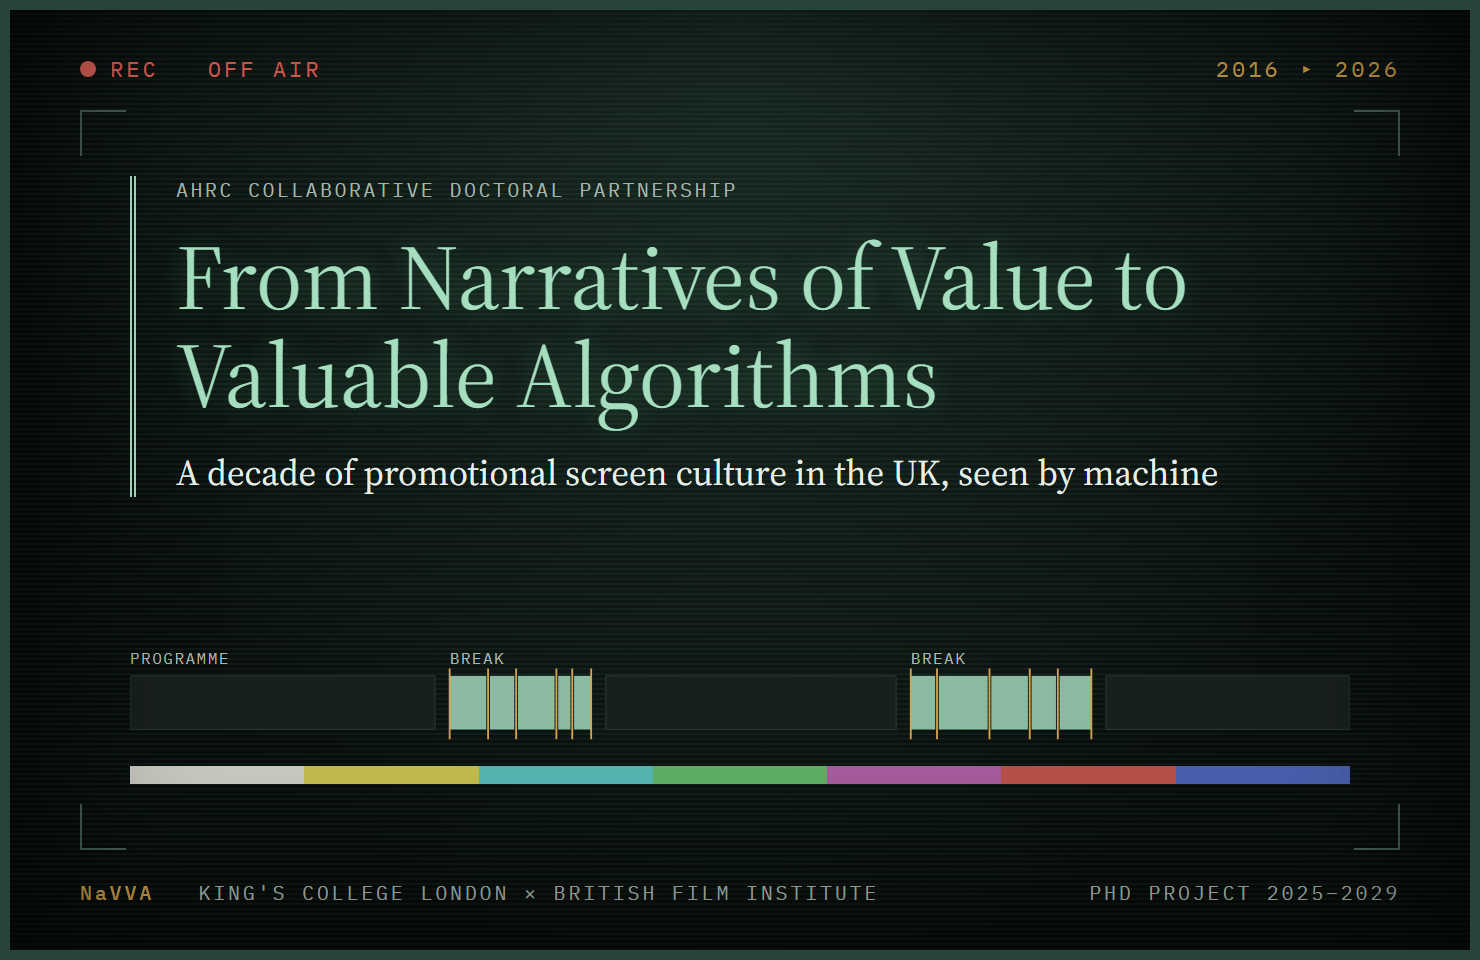
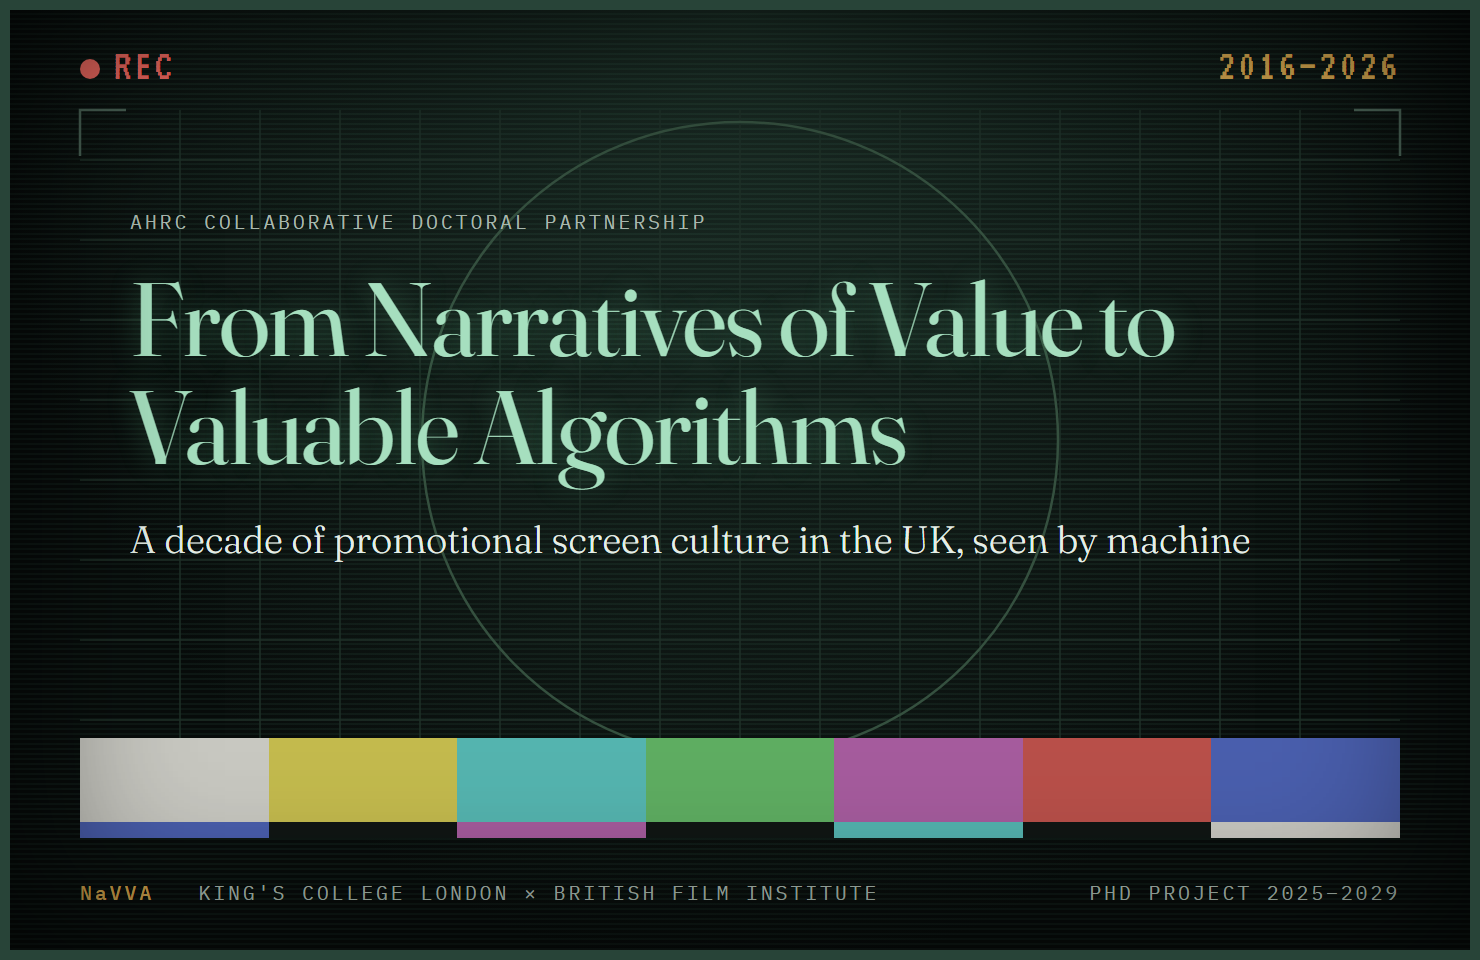
Rework title card: Fraunces and VT323, test-card geometry, colour bars

diff --git a/_src/card.html b/_src/card.html
@@ -1,54 +1,57 @@
 <!doctype html>
 <!-- Source for assets/navva_card.png. Render at 1480x960:
-     chrome --headless --screenshot=navva_card.png --window-size=1480,960 --hide-scrollbars card.html -->
+     chrome --headless --screenshot=navva_card.png --window-size=1480,960 --hide-scrollbars card.html
+     Add ?v=b for the grotesque caption variant. -->
 <html lang="en">
 <head>
 <meta charset="utf-8">
-<link rel="stylesheet" href="https://fonts.googleapis.com/css2?family=IBM+Plex+Mono:wght@400;500&family=Source+Serif+4:opsz,wght@8..60,400&display=swap">
+<link rel="stylesheet" href="https://fonts.googleapis.com/css2?family=Archivo:wdth,wght@62..125,400..800&family=Fraunces:opsz,wght@9..144,300..500&family=IBM+Plex+Mono:wght@400;500&family=VT323&display=swap">
 <style>
   html, body { margin: 0; width: 1480px; height: 960px; overflow: hidden; }
   body { background: #080c0b; color: #e5eee7; font-family: "IBM Plex Mono", monospace; position: relative;
     background-image: repeating-linear-gradient(0deg, rgba(126,255,197,0.05) 0, rgba(126,255,197,0.05) 2px, transparent 2px, transparent 5px), radial-gradient(ellipse at 50% 0%, #1a2b24 0%, #080c0b 72%); }
   body::after { content: ""; position: absolute; inset: 0; border: 10px solid #284438; box-shadow: inset 0 0 180px rgba(0,0,0,0.7); pointer-events: none; }
-  .osd { position: absolute; top: 54px; left: 80px; right: 80px; display: flex; justify-content: space-between; font-size: 22px; letter-spacing: 0.14em; }
-  .rec { color: #f06a61; } .rec i { display: inline-block; width: 16px; height: 16px; border-radius: 50%; background: currentColor; margin-right: 14px; }
+  /* test-card geometry behind the title */
+  .card { position: absolute; inset: 0; width: 100%; height: 100%; }
+  .osd { position: absolute; top: 44px; left: 80px; right: 80px; display: flex; justify-content: space-between; font: 400 44px/1 "VT323", monospace; letter-spacing: 0.06em; }
+  .rec { color: #f06a61; } .rec i { display: inline-block; width: 20px; height: 20px; border-radius: 50%; background: currentColor; margin-right: 14px; }
   .tc { color: #d3a54f; }
-  /* safe-area corner marks */
-  .c { position: absolute; width: 44px; height: 44px; border: 2px solid #486054; }
-  .c.tl { top: 110px; left: 80px; border-right: 0; border-bottom: 0; } .c.tr { top: 110px; right: 80px; border-left: 0; border-bottom: 0; }
-  .c.bl { bottom: 110px; left: 80px; border-right: 0; border-top: 0; } .c.br { bottom: 110px; right: 80px; border-left: 0; border-top: 0; }
-  .title { position: absolute; top: 176px; left: 130px; right: 130px; border-left: 6px double #a6dfbf; padding-left: 40px; }
-  .label { font-size: 20px; letter-spacing: 0.12em; text-transform: uppercase; color: #a9b8ae; }
-  h1 { font: 400 92px/1.06 "Source Serif 4", Georgia, serif; color: #a6dfbf; text-shadow: 0 0 30px rgba(116,226,166,0.28); margin: 26px 0 26px; }
-  .dek { font: 400 36px/1.3 "Source Serif 4", Georgia, serif; color: #e5eee7; }
-  .strip { position: absolute; left: 130px; right: 130px; bottom: 176px; }
-  svg { width: 100%; display: block; }
-  svg text { font-family: "IBM Plex Mono", monospace; font-size: 13px; letter-spacing: 0.1em; fill: #a9b8ae; }
-  .bars { display: flex; height: 18px; margin-top: 22px; } .bars span { flex: 1; }
+  .title { position: absolute; top: 208px; left: 130px; right: 130px; }
+  .label { font-size: 20px; letter-spacing: 0.14em; text-transform: uppercase; color: #a9b8ae; }
+  h1 { font: 400 104px/1.04 "Fraunces", Georgia, serif; font-variation-settings: "opsz" 144; letter-spacing: -0.012em; color: #a6dfbf; text-shadow: 0 0 30px rgba(116,226,166,0.28); margin: 30px 0 34px; }
+  h1 em { font-style: normal; color: #e5eee7; }
+  .dek { font: 300 38px/1.3 "Fraunces", Georgia, serif; font-variation-settings: "opsz" 36; color: #e5eee7; margin: 0; }
+  .b h1 { font: 800 78px/1.06 "Archivo", sans-serif; font-stretch: 112%; text-transform: uppercase; letter-spacing: 0.005em; }
+  .b .dek { font: 400 34px/1.3 "Archivo", sans-serif; font-stretch: 100%; }
+  .bars { position: absolute; left: 80px; right: 80px; bottom: 122px; }
+  .bars div { display: flex; } .bars span { flex: 1; }
+  .bars .main { height: 84px; } .bars .sub { height: 16px; }
   .foot { position: absolute; bottom: 54px; left: 80px; right: 80px; display: flex; justify-content: space-between; font-size: 20px; letter-spacing: 0.14em; color: #a9b8ae; }
   .foot b { color: #d3a54f; font-weight: 500; }
 </style>
 </head>
 <body>
-  <div class="osd"><span class="rec"><i></i>REC &nbsp; OFF AIR</span><span class="tc">2016 ▸ 2026</span></div>
-  <i class="c tl"></i><i class="c tr"></i><i class="c bl"></i><i class="c br"></i>
+  <svg class="card" viewBox="0 0 1480 960" aria-hidden="true">
+    <g stroke="#1f3028" stroke-width="1.5" fill="none">
+      <path d="M80 160H1400M80 240H1400M80 320H1400M80 400H1400M80 480H1400M80 560H1400M80 640H1400M80 720H1400"/>
+      <path d="M180 110V740M260 110V740M340 110V740M420 110V740M500 110V740M580 110V740M660 110V740M740 110V740M820 110V740M900 110V740M980 110V740M1060 110V740M1140 110V740M1220 110V740M1300 110V740"/>
+    </g>
+    <circle cx="740" cy="440" r="318" fill="none" stroke="#35503f" stroke-width="2.5"/>
+    <g stroke="#486054" stroke-width="2.5" fill="none">
+      <path d="M80 156V110H126M1354 110H1400V156"/>
+    </g>
+  </svg>
+  <div class="osd"><span class="rec"><i></i>REC</span><span class="tc">2016–2026</span></div>
   <div class="title">
     <span class="label">AHRC Collaborative Doctoral Partnership</span>
     <h1>From Narratives of Value to Valuable Algorithms</h1>
-    <p class="dek" style="margin:0">A decade of promotional screen culture in the UK, seen by machine</p>
+    <p class="dek">A decade of promotional screen culture in the UK, seen by machine</p>
   </div>
-  <div class="strip">
-    <svg viewBox="0 0 1000 78">
-      <text x="0" y="12">PROGRAMME</text><text x="262" y="12" fill="#d3a54f">BREAK</text><text x="640" y="12" fill="#d3a54f">BREAK</text>
-      <g fill="#18201c" stroke="#27352e"><rect x="0" y="22" width="250" height="44"/><rect x="390" y="22" width="238" height="44"/><rect x="800" y="22" width="200" height="44"/></g>
-      <g fill="#a6dfbf" fill-opacity="0.82">
-        <rect x="262" y="22" width="30" height="44"/><rect x="295" y="22" width="20" height="44"/><rect x="318" y="22" width="30" height="44"/><rect x="351" y="22" width="10" height="44"/><rect x="364" y="22" width="14" height="44"/>
-        <rect x="640" y="22" width="20" height="44"/><rect x="663" y="22" width="40" height="44"/><rect x="706" y="22" width="30" height="44"/><rect x="739" y="22" width="20" height="44"/><rect x="762" y="22" width="26" height="44"/>
-      </g>
-      <path stroke="#d3a54f" stroke-width="1.5" d="M262 16V74M293.5 16V74M316.5 16V74M349.5 16V74M362.5 16V74M378 16V74M640 16V74M661.5 16V74M704.5 16V74M737.5 16V74M760.5 16V74M788 16V74"/>
-    </svg>
-    <div class="bars"><span style="background:#c9c9c2"></span><span style="background:#c4bb4e"></span><span style="background:#55b5b0"></span><span style="background:#5fae62"></span><span style="background:#a65c9e"></span><span style="background:#b9504a"></span><span style="background:#4a5fae"></span></div>
+  <div class="bars">
+    <div class="main"><span style="background:#c9c9c2"></span><span style="background:#c4bb4e"></span><span style="background:#55b5b0"></span><span style="background:#5fae62"></span><span style="background:#a65c9e"></span><span style="background:#b9504a"></span><span style="background:#4a5fae"></span></div>
+    <div class="sub"><span style="background:#4a5fae"></span><span style="background:#101614"></span><span style="background:#a65c9e"></span><span style="background:#101614"></span><span style="background:#55b5b0"></span><span style="background:#101614"></span><span style="background:#c9c9c2"></span></div>
   </div>
   <div class="foot"><span><b>NaVVA</b> &nbsp; KING'S COLLEGE LONDON × BRITISH FILM INSTITUTE</span><span>PHD PROJECT 2025–2029</span></div>
+  <script>if (location.search.indexOf("v=b") > -1) document.body.classList.add("b");</script>
 </body>
 </html>

diff --git a/index.html b/index.html
@@ -12,7 +12,7 @@
 <meta name="twitter:card" content="summary_large_image">
 <link rel="preconnect" href="https://fonts.googleapis.com">
 <link rel="preconnect" href="https://fonts.gstatic.com" crossorigin>
-<link rel="stylesheet" href="https://fonts.googleapis.com/css2?family=IBM+Plex+Mono:wght@400;500&family=IBM+Plex+Sans:ital,wght@0,400;0,500;0,600;1,400&family=Source+Serif+4:ital,opsz,wght@0,8..60,400;0,8..60,600;1,8..60,400&display=swap">
+<link rel="stylesheet" href="https://fonts.googleapis.com/css2?family=Fraunces:ital,opsz,wght@0,9..144,300..500;1,9..144,300..500&family=IBM+Plex+Mono:wght@400;500&family=IBM+Plex+Sans:ital,wght@0,400;0,500;0,600;1,400&family=VT323&display=swap">
 <style>
   :root {
     --paper: #f3f1ea; --surface: #fbfaf5; --surface-2: #e9e6db;
@@ -24,7 +24,7 @@
     --scr-bg: #080c0b; --scr-ink: #e5eee7; --scr-soft: #a9b8ae; --scr-line: #27352e;
     --scr-accent: #a6dfbf; --scr-brass: #d3a54f; --scr-rec: #f06a61; --scr-frame: #284438;
     --sans: "IBM Plex Sans", "Segoe UI", system-ui, sans-serif;
-    --serif: "Source Serif 4", Georgia, serif;
+    --serif: "Fraunces", Georgia, serif;
     --mono: "IBM Plex Mono", ui-monospace, Menlo, monospace;
   }
   @media (prefers-color-scheme: dark) {
@@ -63,19 +63,17 @@
   .screen { position: relative; background: var(--scr-bg); color: var(--scr-ink); border: 4px solid var(--scr-frame); overflow: hidden;
     background-image: repeating-linear-gradient(0deg, rgba(126,255,197,0.045) 0, rgba(126,255,197,0.045) 1px, transparent 1px, transparent 3px), radial-gradient(ellipse at 50% 0%, #17251f 0%, #080c0b 70%);
     box-shadow: inset 0 0 72px rgba(0,0,0,0.62); }
-  .osd { display: flex; justify-content: space-between; gap: 12px; padding: 16px 22px 0; font: 500 0.72rem var(--mono); letter-spacing: 0.12em; }
+  .osd { display: flex; justify-content: space-between; gap: 12px; padding: 14px 22px 0; font: 400 1.5rem/1 "VT323", var(--mono); letter-spacing: 0.06em; }
   .osd .rec { color: var(--scr-rec); } .osd .tc { color: var(--scr-brass); font-variant-numeric: tabular-nums; }
-  .rec i { display: inline-block; width: 8px; height: 8px; border-radius: 50%; background: currentColor; margin-right: 8px; animation: blink 1.6s steps(2, start) infinite; }
+  .rec i { display: inline-block; width: 11px; height: 11px; border-radius: 50%; background: currentColor; margin-right: 8px; animation: blink 1.6s steps(2, start) infinite; }
   @keyframes blink { to { visibility: hidden; } }
   @media (prefers-reduced-motion: reduce) { .rec i { animation: none; } }
-  .title { padding: clamp(28px, 6vw, 56px) 22px 8px; border-left: 4px double var(--scr-accent); margin: 22px 0 0 22px; }
+  .title { padding: clamp(28px, 6vw, 60px) 22px clamp(20px, 4vw, 44px); }
   .title .label { color: var(--scr-soft); }
-  h1 { font-size: clamp(1.9rem, 5.4vw, 3.3rem); line-height: 1.08; color: var(--scr-accent); text-shadow: 0 0 16px rgba(116,226,166,0.22); margin: 14px 0 12px; }
-  .dek { font-family: var(--serif); font-size: clamp(1.05rem, 2.2vw, 1.3rem); color: var(--scr-ink); max-width: 34rem; }
-  .strip { padding: 26px 22px 6px; }
-  .strip svg { width: 100%; height: auto; display: block; }
-  .strip text { font-family: var(--mono); font-size: 11px; letter-spacing: 0.08em; fill: var(--scr-soft); }
-  .bars { display: flex; height: 10px; margin-top: 18px; }
+  h1 { font-size: clamp(2rem, 6vw, 3.7rem); line-height: 1.05; letter-spacing: -0.012em; color: var(--scr-accent); text-shadow: 0 0 16px rgba(116,226,166,0.22); margin: 14px 0 12px; }
+  .dek { font-family: var(--serif); font-weight: 300; font-size: clamp(1.05rem, 2.2vw, 1.3rem); color: var(--scr-ink); max-width: 34rem; }
+  .strip { padding: 0 22px 22px; }
+  .bars { display: flex; height: clamp(22px, 5vw, 44px); }
   .bars span { flex: 1; }
 
   section { padding-top: 52px; }
@@ -105,31 +103,13 @@
   </div>
 
   <header class="screen">
-    <div class="osd"><span class="rec"><i></i>REC &nbsp; OFF AIR</span><span class="tc">2016 ▸ 2026</span></div>
+    <div class="osd"><span class="rec"><i></i>REC</span><span class="tc">2016–2026</span></div>
     <div class="title">
       <span class="label">AHRC Collaborative Doctoral Partnership · King's College London × British Film Institute</span>
       <h1>From Narratives of Value to Valuable Algorithms</h1>
       <p class="dek">A decade of promotional screen culture in the UK, seen by machine</p>
     </div>
     <div class="strip">
-      <svg viewBox="0 0 1000 96" role="img" aria-label="Diagram: a continuous broadcast recording in which programme segments alternate with advertising breaks; each break is divided into single advertisements at marked cut points.">
-        <text x="0" y="12">PROGRAMME</text><text x="262" y="12" fill="#d3a54f">BREAK</text><text x="640" y="12" fill="#d3a54f">BREAK</text>
-        <g>
-          <rect x="0" y="22" width="250" height="40" fill="#18201c" stroke="#27352e"/>
-          <rect x="390" y="22" width="238" height="40" fill="#18201c" stroke="#27352e"/>
-          <rect x="800" y="22" width="200" height="40" fill="#18201c" stroke="#27352e"/>
-        </g>
-        <g fill="#a6dfbf" fill-opacity="0.82">
-          <rect x="262" y="22" width="30" height="40"/><rect x="295" y="22" width="20" height="40"/><rect x="318" y="22" width="30" height="40"/><rect x="351" y="22" width="10" height="40"/><rect x="364" y="22" width="14" height="40"/>
-          <rect x="640" y="22" width="20" height="40"/><rect x="663" y="22" width="40" height="40"/><rect x="706" y="22" width="30" height="40"/><rect x="739" y="22" width="20" height="40"/><rect x="762" y="22" width="26" height="40"/>
-        </g>
-        <g stroke="#d3a54f" stroke-width="1.5">
-          <path d="M262 16V70M293.5 16V70M316.5 16V70M349.5 16V70M362.5 16V70M378 16V70M640 16V70M661.5 16V70M704.5 16V70M737.5 16V70M760.5 16V70M788 16V70"/>
-        </g>
-        <path d="M0 80H1000" stroke="#27352e"/>
-        <g stroke="#486054"><path d="M0 76V84M250 76V84M500 76V84M750 76V84M1000 76V84"/></g>
-        <text x="0" y="96">00:00:00</text><text x="930" y="96">01:00:00</text>
-      </svg>
       <div class="bars" aria-hidden="true"><span style="background:#c9c9c2"></span><span style="background:#c4bb4e"></span><span style="background:#55b5b0"></span><span style="background:#5fae62"></span><span style="background:#a65c9e"></span><span style="background:#b9504a"></span><span style="background:#4a5fae"></span></div>
     </div>
   </header>
